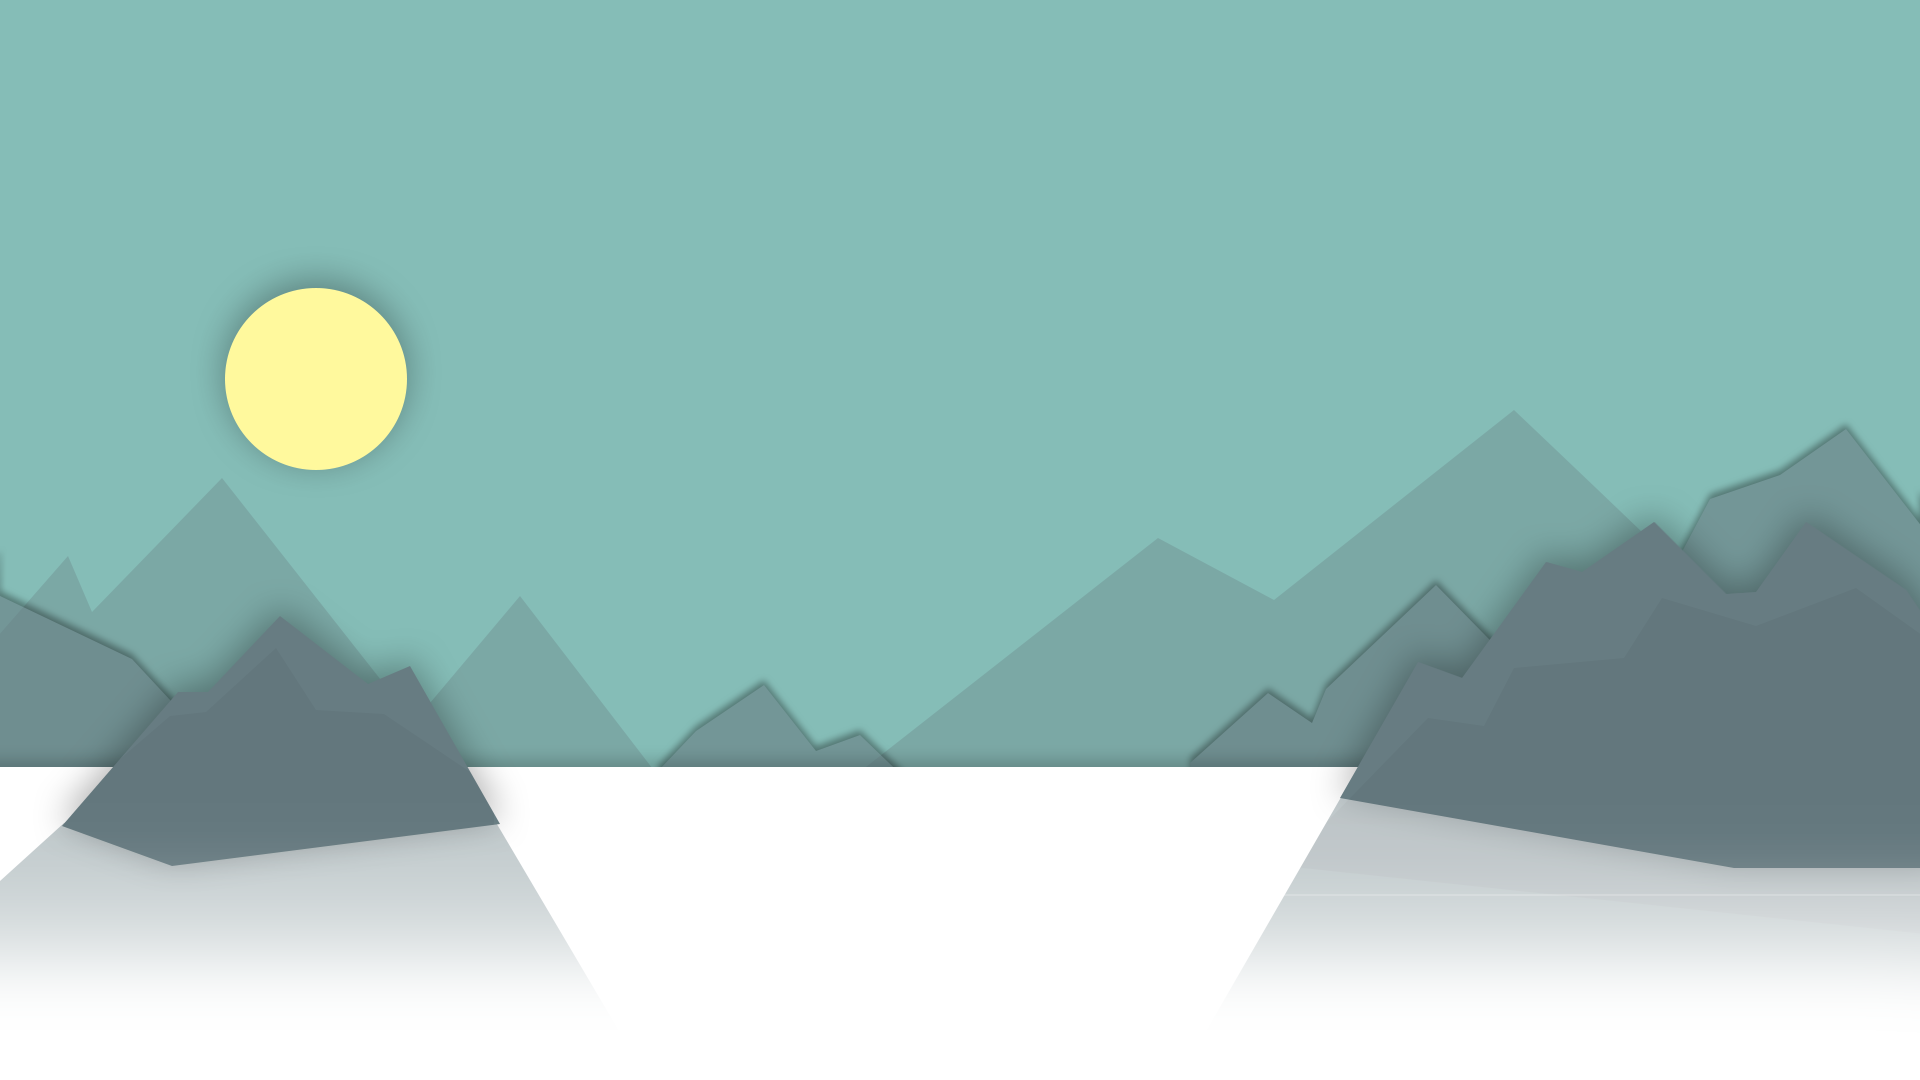
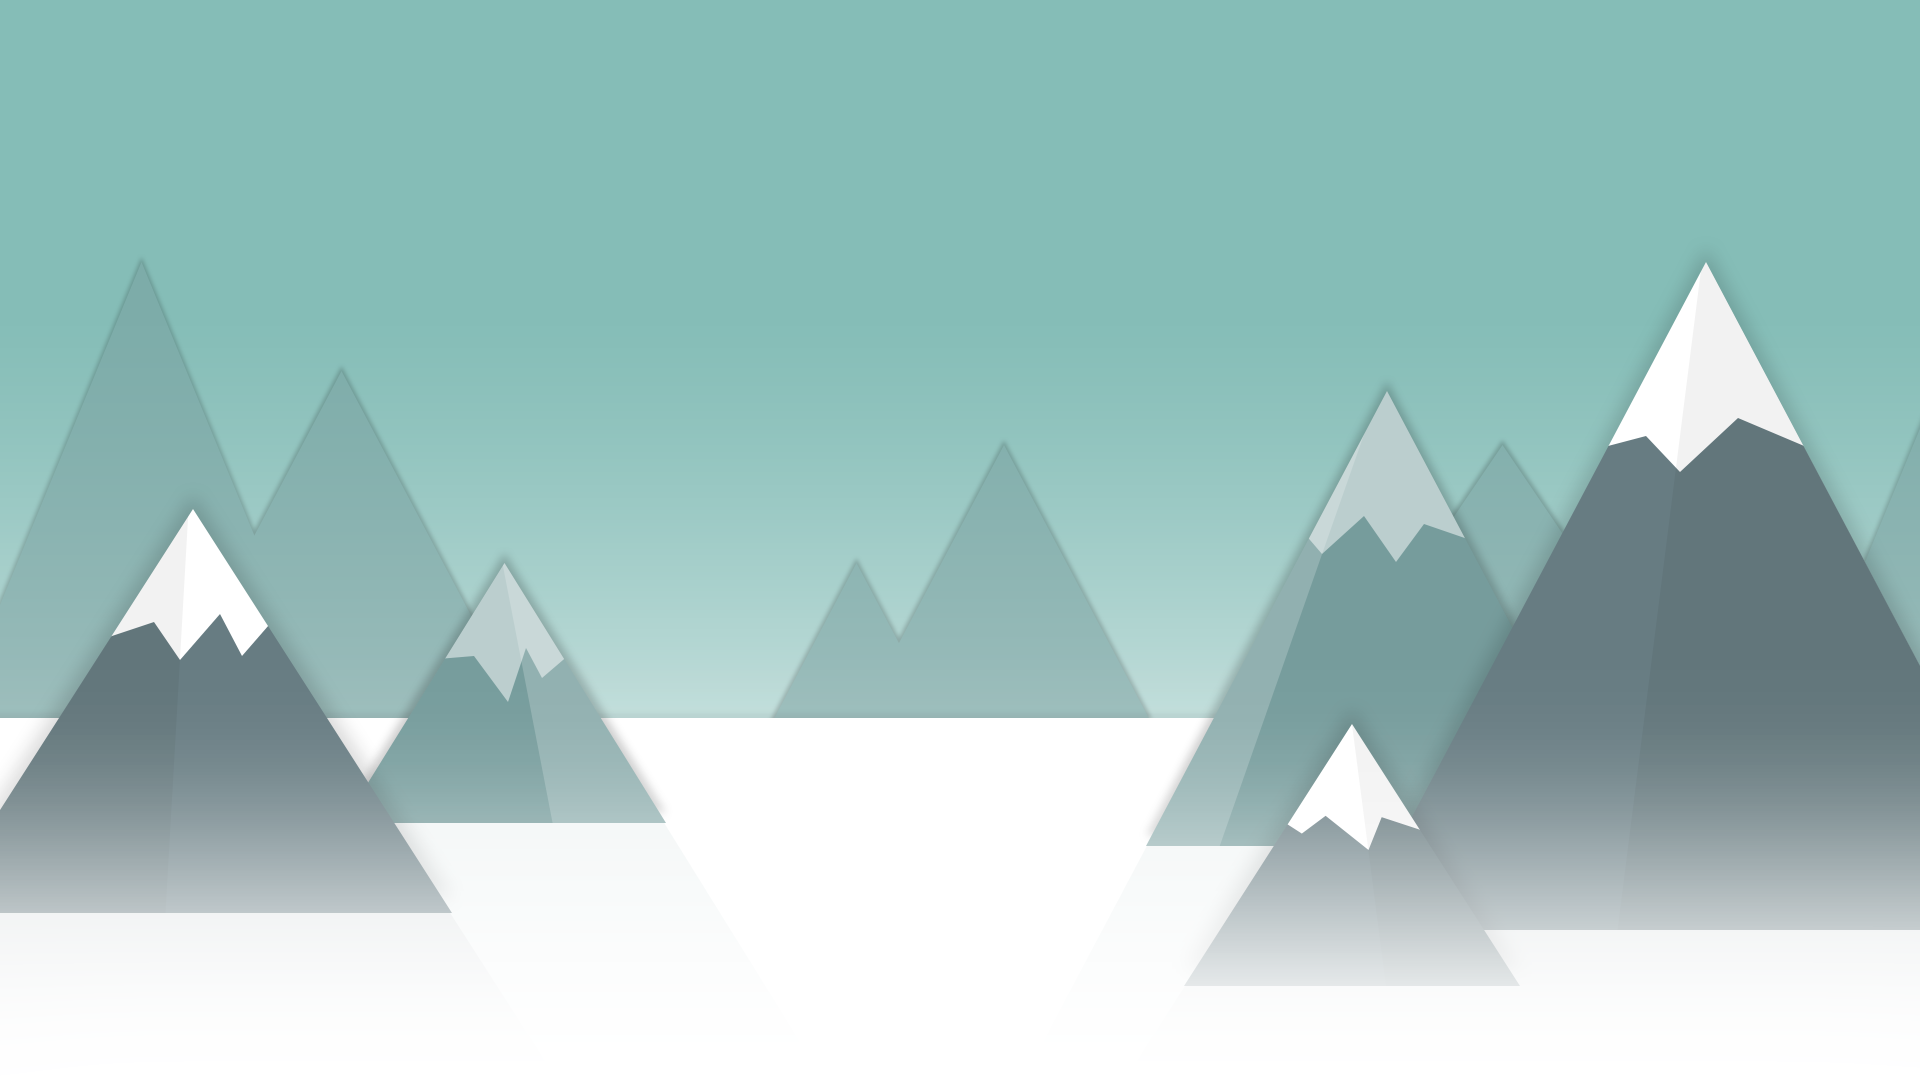
got parallax to work -- finally

Changed region(s): [[0.0, 0.2444, 1.0, 0.9167], [0.0938, 0.2444, 0.2188, 0.4583], [0.7812, 0.5194, 0.8125, 0.5806]]

diff --git a/js/jquery.stellar.min.js b/js/jquery.stellar.min.js
@@ -1,0 +1,2 @@
+/*! Stellar.js v0.6.2 | Copyright 2014, Mark Dalgleish | http://markdalgleish.com/projects/stellar.js | http://markdalgleish.mit-license.org */
+!function(a,b,c,d){function e(b,c){this.element=b,this.options=a.extend({},g,c),this._defaults=g,this._name=f,this.init()}var f="stellar",g={scrollProperty:"scroll",positionProperty:"position",horizontalScrolling:!0,verticalScrolling:!0,horizontalOffset:0,verticalOffset:0,responsive:!1,parallaxBackgrounds:!0,parallaxElements:!0,hideDistantElements:!0,hideElement:function(a){a.hide()},showElement:function(a){a.show()}},h={scroll:{getLeft:function(a){return a.scrollLeft()},setLeft:function(a,b){a.scrollLeft(b)},getTop:function(a){return a.scrollTop()},setTop:function(a,b){a.scrollTop(b)}},position:{getLeft:function(a){return-1*parseInt(a.css("left"),10)},getTop:function(a){return-1*parseInt(a.css("top"),10)}},margin:{getLeft:function(a){return-1*parseInt(a.css("margin-left"),10)},getTop:function(a){return-1*parseInt(a.css("margin-top"),10)}},transform:{getLeft:function(a){var b=getComputedStyle(a[0])[k];return"none"!==b?-1*parseInt(b.match(/(-?[0-9]+)/g)[4],10):0},getTop:function(a){var b=getComputedStyle(a[0])[k];return"none"!==b?-1*parseInt(b.match(/(-?[0-9]+)/g)[5],10):0}}},i={position:{setLeft:function(a,b){a.css("left",b)},setTop:function(a,b){a.css("top",b)}},transform:{setPosition:function(a,b,c,d,e){a[0].style[k]="translate3d("+(b-c)+"px, "+(d-e)+"px, 0)"}}},j=function(){var b,c=/^(Moz|Webkit|Khtml|O|ms|Icab)(?=[A-Z])/,d=a("script")[0].style,e="";for(b in d)if(c.test(b)){e=b.match(c)[0];break}return"WebkitOpacity"in d&&(e="Webkit"),"KhtmlOpacity"in d&&(e="Khtml"),function(a){return e+(e.length>0?a.charAt(0).toUpperCase()+a.slice(1):a)}}(),k=j("transform"),l=a("<div />",{style:"background:#fff"}).css("background-position-x")!==d,m=l?function(a,b,c){a.css({"background-position-x":b,"background-position-y":c})}:function(a,b,c){a.css("background-position",b+" "+c)},n=l?function(a){return[a.css("background-position-x"),a.css("background-position-y")]}:function(a){return a.css("background-position").split(" ")},o=b.requestAnimationFrame||b.webkitRequestAnimationFrame||b.mozRequestAnimationFrame||b.oRequestAnimationFrame||b.msRequestAnimationFrame||function(a){setTimeout(a,1e3/60)};e.prototype={init:function(){this.options.name=f+"_"+Math.floor(1e9*Math.random()),this._defineElements(),this._defineGetters(),this._defineSetters(),this._handleWindowLoadAndResize(),this._detectViewport(),this.refresh({firstLoad:!0}),"scroll"===this.options.scrollProperty?this._handleScrollEvent():this._startAnimationLoop()},_defineElements:function(){this.element===c.body&&(this.element=b),this.$scrollElement=a(this.element),this.$element=this.element===b?a("body"):this.$scrollElement,this.$viewportElement=this.options.viewportElement!==d?a(this.options.viewportElement):this.$scrollElement[0]===b||"scroll"===this.options.scrollProperty?this.$scrollElement:this.$scrollElement.parent()},_defineGetters:function(){var a=this,b=h[a.options.scrollProperty];this._getScrollLeft=function(){return b.getLeft(a.$scrollElement)},this._getScrollTop=function(){return b.getTop(a.$scrollElement)}},_defineSetters:function(){var b=this,c=h[b.options.scrollProperty],d=i[b.options.positionProperty],e=c.setLeft,f=c.setTop;this._setScrollLeft="function"==typeof e?function(a){e(b.$scrollElement,a)}:a.noop,this._setScrollTop="function"==typeof f?function(a){f(b.$scrollElement,a)}:a.noop,this._setPosition=d.setPosition||function(a,c,e,f,g){b.options.horizontalScrolling&&d.setLeft(a,c,e),b.options.verticalScrolling&&d.setTop(a,f,g)}},_handleWindowLoadAndResize:function(){var c=this,d=a(b);c.options.responsive&&d.bind("load."+this.name,function(){c.refresh()}),d.bind("resize."+this.name,function(){c._detectViewport(),c.options.responsive&&c.refresh()})},refresh:function(c){var d=this,e=d._getScrollLeft(),f=d._getScrollTop();c&&c.firstLoad||this._reset(),this._setScrollLeft(0),this._setScrollTop(0),this._setOffsets(),this._findParticles(),this._findBackgrounds(),c&&c.firstLoad&&/WebKit/.test(navigator.userAgent)&&a(b).load(function(){var a=d._getScrollLeft(),b=d._getScrollTop();d._setScrollLeft(a+1),d._setScrollTop(b+1),d._setScrollLeft(a),d._setScrollTop(b)}),this._setScrollLeft(e),this._setScrollTop(f)},_detectViewport:function(){var a=this.$viewportElement.offset(),b=null!==a&&a!==d;this.viewportWidth=this.$viewportElement.width(),this.viewportHeight=this.$viewportElement.height(),this.viewportOffsetTop=b?a.top:0,this.viewportOffsetLeft=b?a.left:0},_findParticles:function(){{var b=this;this._getScrollLeft(),this._getScrollTop()}if(this.particles!==d)for(var c=this.particles.length-1;c>=0;c--)this.particles[c].$element.data("stellar-elementIsActive",d);this.particles=[],this.options.parallaxElements&&this.$element.find("[data-stellar-ratio]").each(function(){var c,e,f,g,h,i,j,k,l,m=a(this),n=0,o=0,p=0,q=0;if(m.data("stellar-elementIsActive")){if(m.data("stellar-elementIsActive")!==this)return}else m.data("stellar-elementIsActive",this);b.options.showElement(m),m.data("stellar-startingLeft")?(m.css("left",m.data("stellar-startingLeft")),m.css("top",m.data("stellar-startingTop"))):(m.data("stellar-startingLeft",m.css("left")),m.data("stellar-startingTop",m.css("top"))),f=m.position().left,g=m.position().top,h="auto"===m.css("margin-left")?0:parseInt(m.css("margin-left"),10),i="auto"===m.css("margin-top")?0:parseInt(m.css("margin-top"),10),k=m.offset().left-h,l=m.offset().top-i,m.parents().each(function(){var b=a(this);return b.data("stellar-offset-parent")===!0?(n=p,o=q,j=b,!1):(p+=b.position().left,void(q+=b.position().top))}),c=m.data("stellar-horizontal-offset")!==d?m.data("stellar-horizontal-offset"):j!==d&&j.data("stellar-horizontal-offset")!==d?j.data("stellar-horizontal-offset"):b.horizontalOffset,e=m.data("stellar-vertical-offset")!==d?m.data("stellar-vertical-offset"):j!==d&&j.data("stellar-vertical-offset")!==d?j.data("stellar-vertical-offset"):b.verticalOffset,b.particles.push({$element:m,$offsetParent:j,isFixed:"fixed"===m.css("position"),horizontalOffset:c,verticalOffset:e,startingPositionLeft:f,startingPositionTop:g,startingOffsetLeft:k,startingOffsetTop:l,parentOffsetLeft:n,parentOffsetTop:o,stellarRatio:m.data("stellar-ratio")!==d?m.data("stellar-ratio"):1,width:m.outerWidth(!0),height:m.outerHeight(!0),isHidden:!1})})},_findBackgrounds:function(){var b,c=this,e=this._getScrollLeft(),f=this._getScrollTop();this.backgrounds=[],this.options.parallaxBackgrounds&&(b=this.$element.find("[data-stellar-background-ratio]"),this.$element.data("stellar-background-ratio")&&(b=b.add(this.$element)),b.each(function(){var b,g,h,i,j,k,l,o=a(this),p=n(o),q=0,r=0,s=0,t=0;if(o.data("stellar-backgroundIsActive")){if(o.data("stellar-backgroundIsActive")!==this)return}else o.data("stellar-backgroundIsActive",this);o.data("stellar-backgroundStartingLeft")?m(o,o.data("stellar-backgroundStartingLeft"),o.data("stellar-backgroundStartingTop")):(o.data("stellar-backgroundStartingLeft",p[0]),o.data("stellar-backgroundStartingTop",p[1])),h="auto"===o.css("margin-left")?0:parseInt(o.css("margin-left"),10),i="auto"===o.css("margin-top")?0:parseInt(o.css("margin-top"),10),j=o.offset().left-h-e,k=o.offset().top-i-f,o.parents().each(function(){var b=a(this);return b.data("stellar-offset-parent")===!0?(q=s,r=t,l=b,!1):(s+=b.position().left,void(t+=b.position().top))}),b=o.data("stellar-horizontal-offset")!==d?o.data("stellar-horizontal-offset"):l!==d&&l.data("stellar-horizontal-offset")!==d?l.data("stellar-horizontal-offset"):c.horizontalOffset,g=o.data("stellar-vertical-offset")!==d?o.data("stellar-vertical-offset"):l!==d&&l.data("stellar-vertical-offset")!==d?l.data("stellar-vertical-offset"):c.verticalOffset,c.backgrounds.push({$element:o,$offsetParent:l,isFixed:"fixed"===o.css("background-attachment"),horizontalOffset:b,verticalOffset:g,startingValueLeft:p[0],startingValueTop:p[1],startingBackgroundPositionLeft:isNaN(parseInt(p[0],10))?0:parseInt(p[0],10),startingBackgroundPositionTop:isNaN(parseInt(p[1],10))?0:parseInt(p[1],10),startingPositionLeft:o.position().left,startingPositionTop:o.position().top,startingOffsetLeft:j,startingOffsetTop:k,parentOffsetLeft:q,parentOffsetTop:r,stellarRatio:o.data("stellar-background-ratio")===d?1:o.data("stellar-background-ratio")})}))},_reset:function(){var a,b,c,d,e;for(e=this.particles.length-1;e>=0;e--)a=this.particles[e],b=a.$element.data("stellar-startingLeft"),c=a.$element.data("stellar-startingTop"),this._setPosition(a.$element,b,b,c,c),this.options.showElement(a.$element),a.$element.data("stellar-startingLeft",null).data("stellar-elementIsActive",null).data("stellar-backgroundIsActive",null);for(e=this.backgrounds.length-1;e>=0;e--)d=this.backgrounds[e],d.$element.data("stellar-backgroundStartingLeft",null).data("stellar-backgroundStartingTop",null),m(d.$element,d.startingValueLeft,d.startingValueTop)},destroy:function(){this._reset(),this.$scrollElement.unbind("resize."+this.name).unbind("scroll."+this.name),this._animationLoop=a.noop,a(b).unbind("load."+this.name).unbind("resize."+this.name)},_setOffsets:function(){var c=this,d=a(b);d.unbind("resize.horizontal-"+this.name).unbind("resize.vertical-"+this.name),"function"==typeof this.options.horizontalOffset?(this.horizontalOffset=this.options.horizontalOffset(),d.bind("resize.horizontal-"+this.name,function(){c.horizontalOffset=c.options.horizontalOffset()})):this.horizontalOffset=this.options.horizontalOffset,"function"==typeof this.options.verticalOffset?(this.verticalOffset=this.options.verticalOffset(),d.bind("resize.vertical-"+this.name,function(){c.verticalOffset=c.options.verticalOffset()})):this.verticalOffset=this.options.verticalOffset},_repositionElements:function(){var a,b,c,d,e,f,g,h,i,j,k=this._getScrollLeft(),l=this._getScrollTop(),n=!0,o=!0;if(this.currentScrollLeft!==k||this.currentScrollTop!==l||this.currentWidth!==this.viewportWidth||this.currentHeight!==this.viewportHeight){for(this.currentScrollLeft=k,this.currentScrollTop=l,this.currentWidth=this.viewportWidth,this.currentHeight=this.viewportHeight,j=this.particles.length-1;j>=0;j--)a=this.particles[j],b=a.isFixed?1:0,this.options.horizontalScrolling?(f=(k+a.horizontalOffset+this.viewportOffsetLeft+a.startingPositionLeft-a.startingOffsetLeft+a.parentOffsetLeft)*-(a.stellarRatio+b-1)+a.startingPositionLeft,h=f-a.startingPositionLeft+a.startingOffsetLeft):(f=a.startingPositionLeft,h=a.startingOffsetLeft),this.options.verticalScrolling?(g=(l+a.verticalOffset+this.viewportOffsetTop+a.startingPositionTop-a.startingOffsetTop+a.parentOffsetTop)*-(a.stellarRatio+b-1)+a.startingPositionTop,i=g-a.startingPositionTop+a.startingOffsetTop):(g=a.startingPositionTop,i=a.startingOffsetTop),this.options.hideDistantElements&&(o=!this.options.horizontalScrolling||h+a.width>(a.isFixed?0:k)&&h<(a.isFixed?0:k)+this.viewportWidth+this.viewportOffsetLeft,n=!this.options.verticalScrolling||i+a.height>(a.isFixed?0:l)&&i<(a.isFixed?0:l)+this.viewportHeight+this.viewportOffsetTop),o&&n?(a.isHidden&&(this.options.showElement(a.$element),a.isHidden=!1),this._setPosition(a.$element,f,a.startingPositionLeft,g,a.startingPositionTop)):a.isHidden||(this.options.hideElement(a.$element),a.isHidden=!0);for(j=this.backgrounds.length-1;j>=0;j--)c=this.backgrounds[j],b=c.isFixed?0:1,d=this.options.horizontalScrolling?(k+c.horizontalOffset-this.viewportOffsetLeft-c.startingOffsetLeft+c.parentOffsetLeft-c.startingBackgroundPositionLeft)*(b-c.stellarRatio)+"px":c.startingValueLeft,e=this.options.verticalScrolling?(l+c.verticalOffset-this.viewportOffsetTop-c.startingOffsetTop+c.parentOffsetTop-c.startingBackgroundPositionTop)*(b-c.stellarRatio)+"px":c.startingValueTop,m(c.$element,d,e)}},_handleScrollEvent:function(){var a=this,b=!1,c=function(){a._repositionElements(),b=!1},d=function(){b||(o(c),b=!0)};this.$scrollElement.bind("scroll."+this.name,d),d()},_startAnimationLoop:function(){var a=this;this._animationLoop=function(){o(a._animationLoop),a._repositionElements()},this._animationLoop()}},a.fn[f]=function(b){var c=arguments;return b===d||"object"==typeof b?this.each(function(){a.data(this,"plugin_"+f)||a.data(this,"plugin_"+f,new e(this,b))}):"string"==typeof b&&"_"!==b[0]&&"init"!==b?this.each(function(){var d=a.data(this,"plugin_"+f);d instanceof e&&"function"==typeof d[b]&&d[b].apply(d,Array.prototype.slice.call(c,1)),"destroy"===b&&a.data(this,"plugin_"+f,null)}):void 0},a[f]=function(){var c=a(b);return c.stellar.apply(c,Array.prototype.slice.call(arguments,0))},a[f].scrollProperty=h,a[f].positionProperty=i,b.Stellar=e}(jQuery,this,document);

diff --git a/index.html b/index.html
@@ -12,7 +12,9 @@
     <link rel="stylesheet" href="assets/font-awesome-4.6.3/css/font-awesome.min.css" type="text/css" />
     <script src="js/material.min.js"></script>
     <script src="js/jquery-2.2.3.min.js"></script>
+    <script src="js/jquery.stellar.min.js"></script>
     <script src="js/scroll.js"></script>
+    <script src="js/parallax.js"></script>
     <title>johngamboa</title>
   </head>
   <body>
@@ -35,18 +37,18 @@
         </nav>
       </div>
       <main class="mdl-layout__content mdl-color-text--grey-500">
-        <section id="landing" class="mdl-typography--text-center mdl-color--light-teal">
+        <section id="landing" class="mdl-typography--text-center mdl-color--light-teal" data-stellar-background-ratio="1.6">
           <div id="name" class="mdl-typography--display-4 mdl-color-text--white">John Gamboa</div>
           <div id="description" class="mdl-typography--display-1 mdl-color-text--teal">Front-End Developer</div>
         </section>
         <section id="about">
           <div id="summary" class="mdl-grid">
             <div class="mdl-cell mdl-cell--4-col mdl-cell--2-offset-desktop mdl-typography--headline">
-              Hello there! I am a Computer Engineering student at UC San Diego, delving into the exciting worlds of
+              Hi there! I'm John, a computer engineering student at UC San Diego, delving into the exciting worlds of
               <b class="mdl-color-text--teal">software engineering</b> and
-              <b class="mdl-color-text--teal">human-computer interaction</b>. <br /><br />
+              <b class="mdl-color-text--teal">human-computer interaction</b>! <br /><br />
               With a passion for designing and building <b class="mdl-color-text--teal">full-stack web applications</b>
-              with the user in mind, I aspire to deliver beautiful and intuitive experiences that users will enjoy.
+              with the user in mind, I aspire to deliver beautiful and intuitive experiences that users will enjoy!
             </div>
           </div>
           <div class="mdl-grid">
@@ -54,11 +56,11 @@
 
             </div>
             <div class="mdl-cell mdl-cell--4-col mdl-typography--headline">
-              My frequently used technologies for building small web applications are <b class="mdl-color-text--teal">MongoDB</b>,
+              My most favorite technologies for building small web applications are <b class="mdl-color-text--teal">MongoDB</b>,
               <b class="mdl-color-text--teal">Express.js</b>, <b class="mdl-color-text--teal">AngularJS</b>,
               and <b class="mdl-color-text--teal">Node.js</b> due to the ease and speed of development by using
               <b class="mdl-color-text--teal">JavaScript</b> across the entire stack.<br /><br />
-              I am currently learning <b class="mdl-color-text--teal">ReactJS</b>,
+              I am currently delving into <b class="mdl-color-text--teal">ReactJS</b>,
               <b class="mdl-color-text--teal">Flux</b> and <b class="mdl-color-text--teal">Polymer</b> to
               broaden my technical skillset and to further challenge myself.
             </div>

diff --git a/js/parallax.js b/js/parallax.js
@@ -1,0 +1,22 @@
+$(function() {
+
+  $(document).ready(function() {
+
+    $('.mdl-layout, .mdl-layout__content').stellar({
+      horizontalScrolling: false,
+      parallaxBackgrounds: true,
+      positionProperty: 'transform',
+      responsive: true
+    });
+
+    ($(window).width() > 1024) ? $('#landing').attr('data-stellar-background-ratio', '1.6')
+                               : $('#landing').removeAttr('data-stellar-background-ratio');
+  });
+
+  $(window).resize(function() {
+    ($(window).width() > 1024) ? $('#landing').attr('data-stellar-background-ratio', '1.6')
+                               : $('#landing').removeAttr('data-stellar-background-ratio');
+
+    $.stellar('refresh');
+  });
+});

diff --git a/css/main.css b/css/main.css
@@ -18,11 +18,11 @@ h2 {
   height: 90vh;
   padding-top: 10vh;
 
-  background-image: url('../assets/img/flatmountains.png');
+  background-image: url('../assets/img/clouds.png'), url('../assets/img/mountains.png');
   background-repeat: no-repeat;
-  background-attachment: fixed;
-  background-position: center bottom;
-  background-size: cover;
+  background-attachment: fixed, fixed;
+  background-position: center bottom, center bottom;
+  background-size: cover, cover;
 }
 
 #about {
@@ -41,13 +41,8 @@ h2 {
   }
 
   #landing {
-    background-attachment: scroll;
     background-size: contain;
   }
-}
-
-nav > a {
-  font-family: 'Raleway', sans-serif;
 }
 
 #name {
